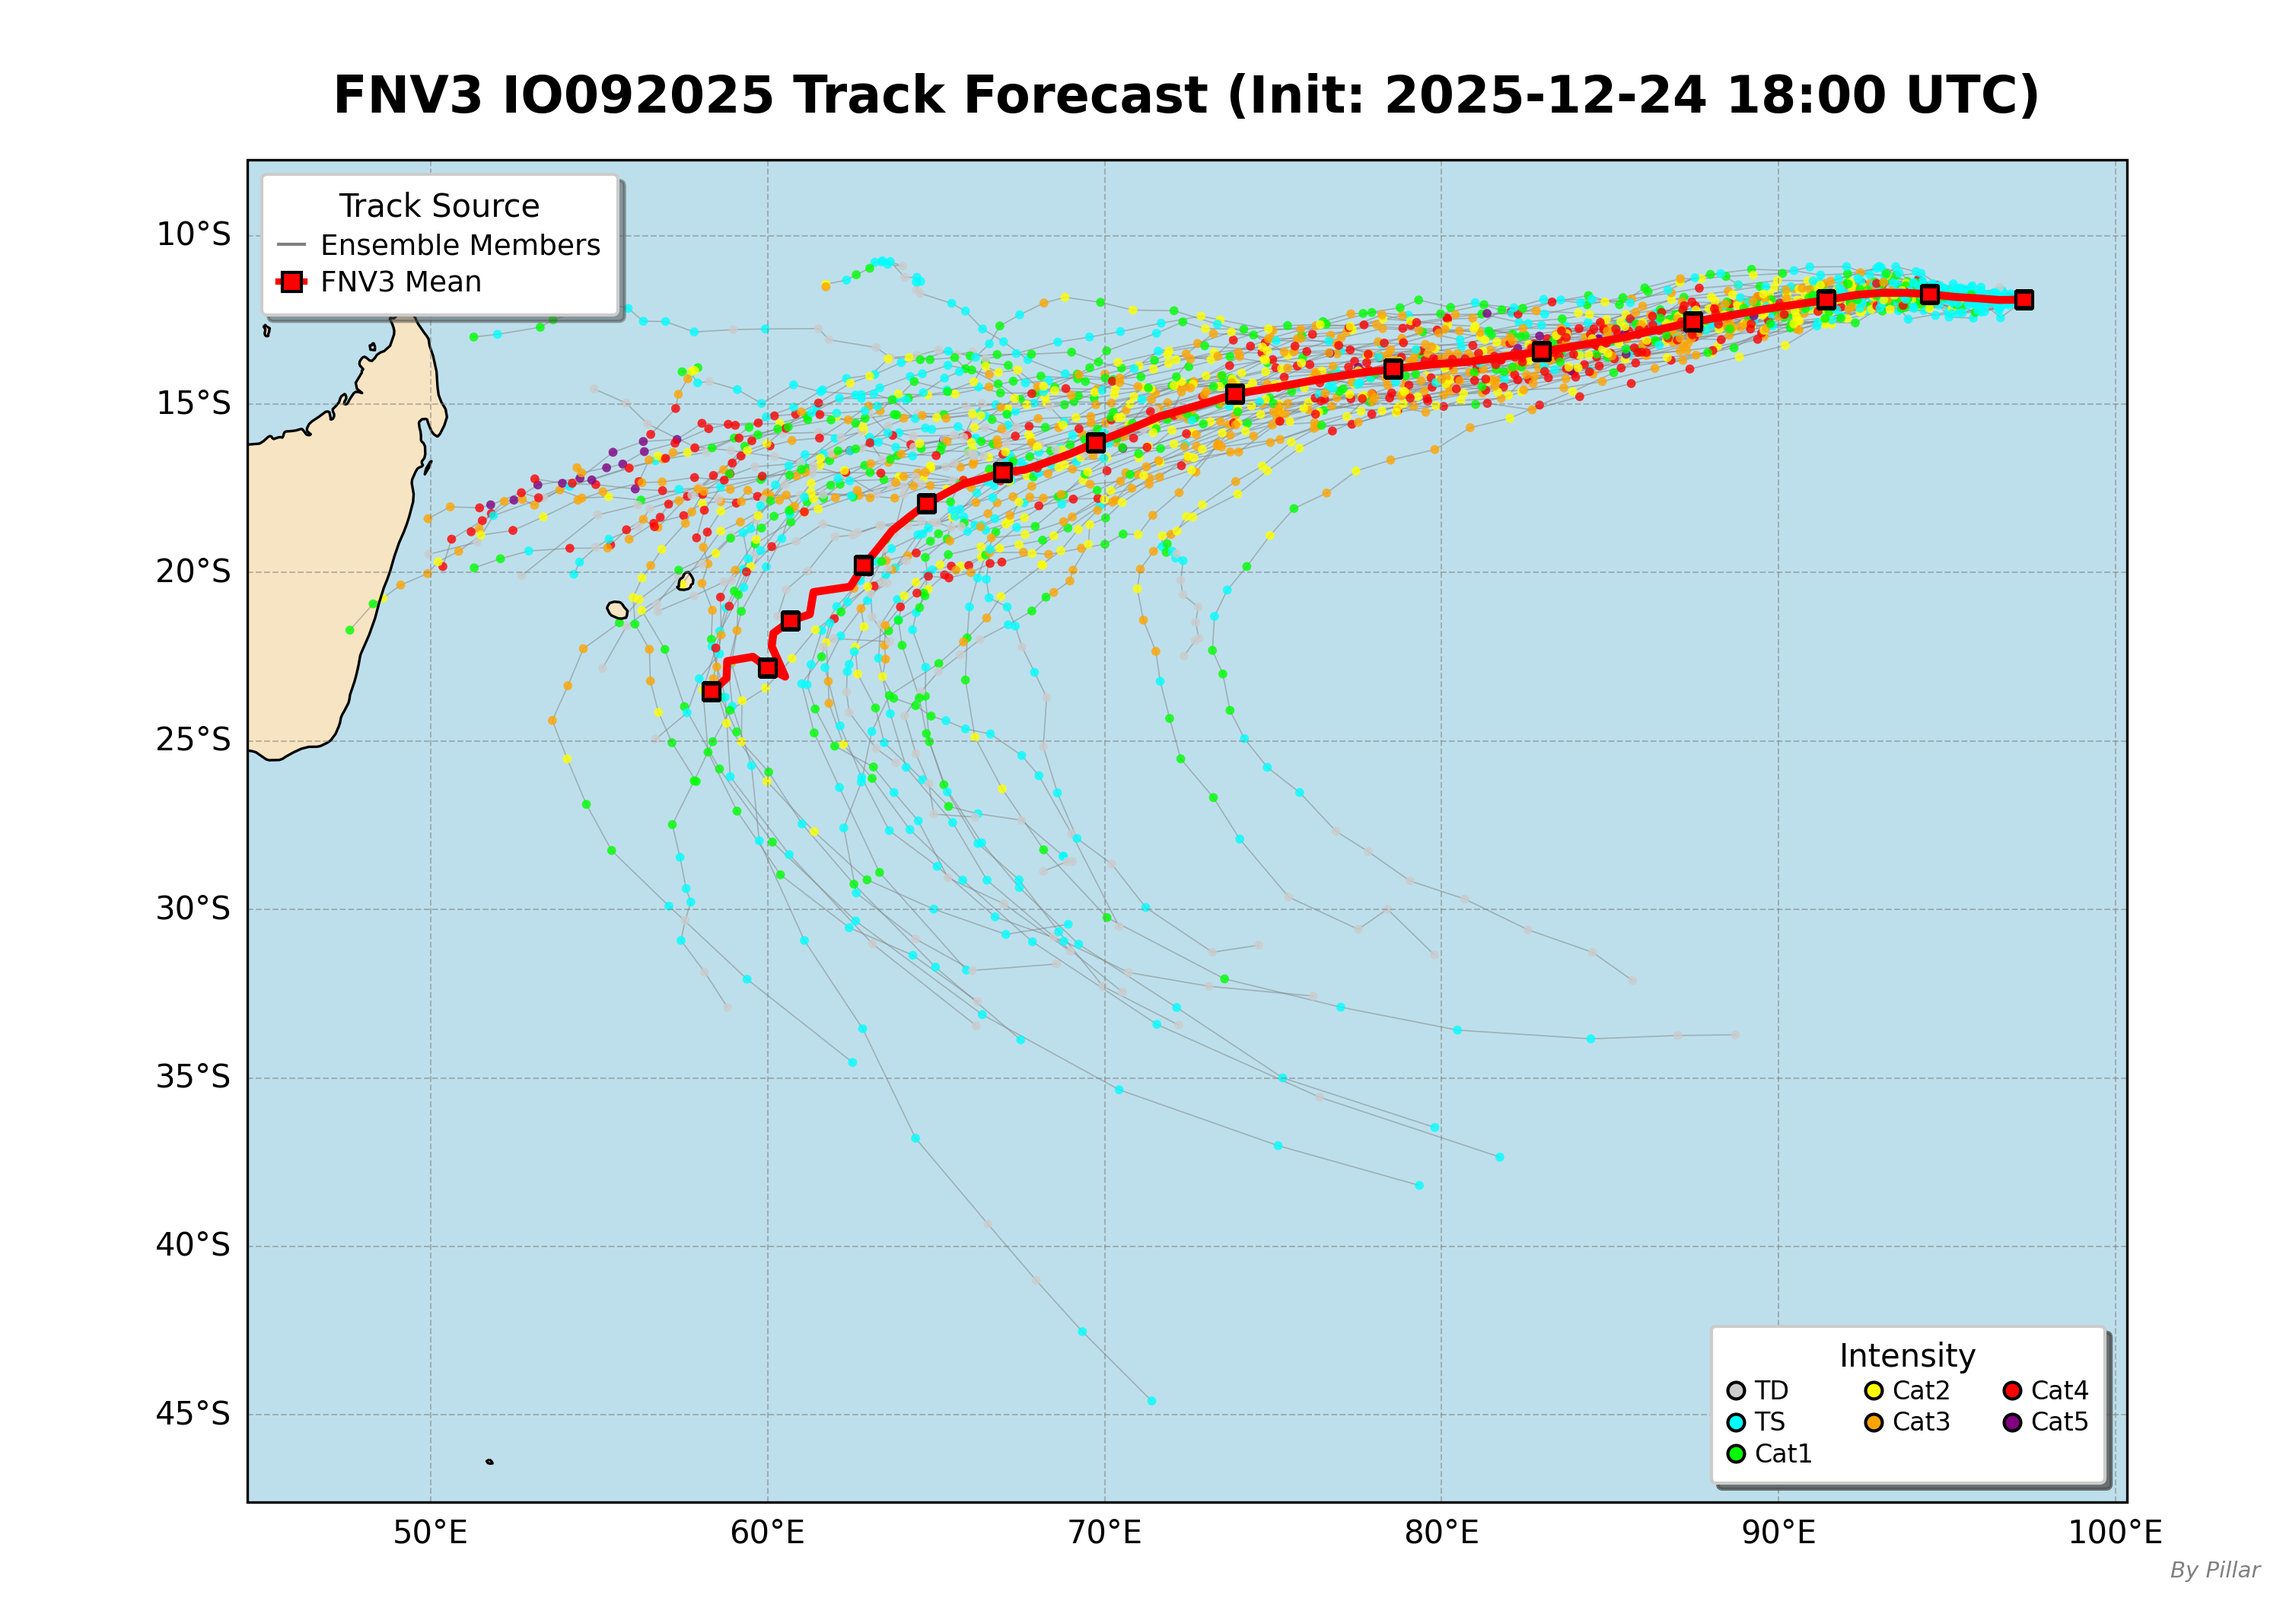
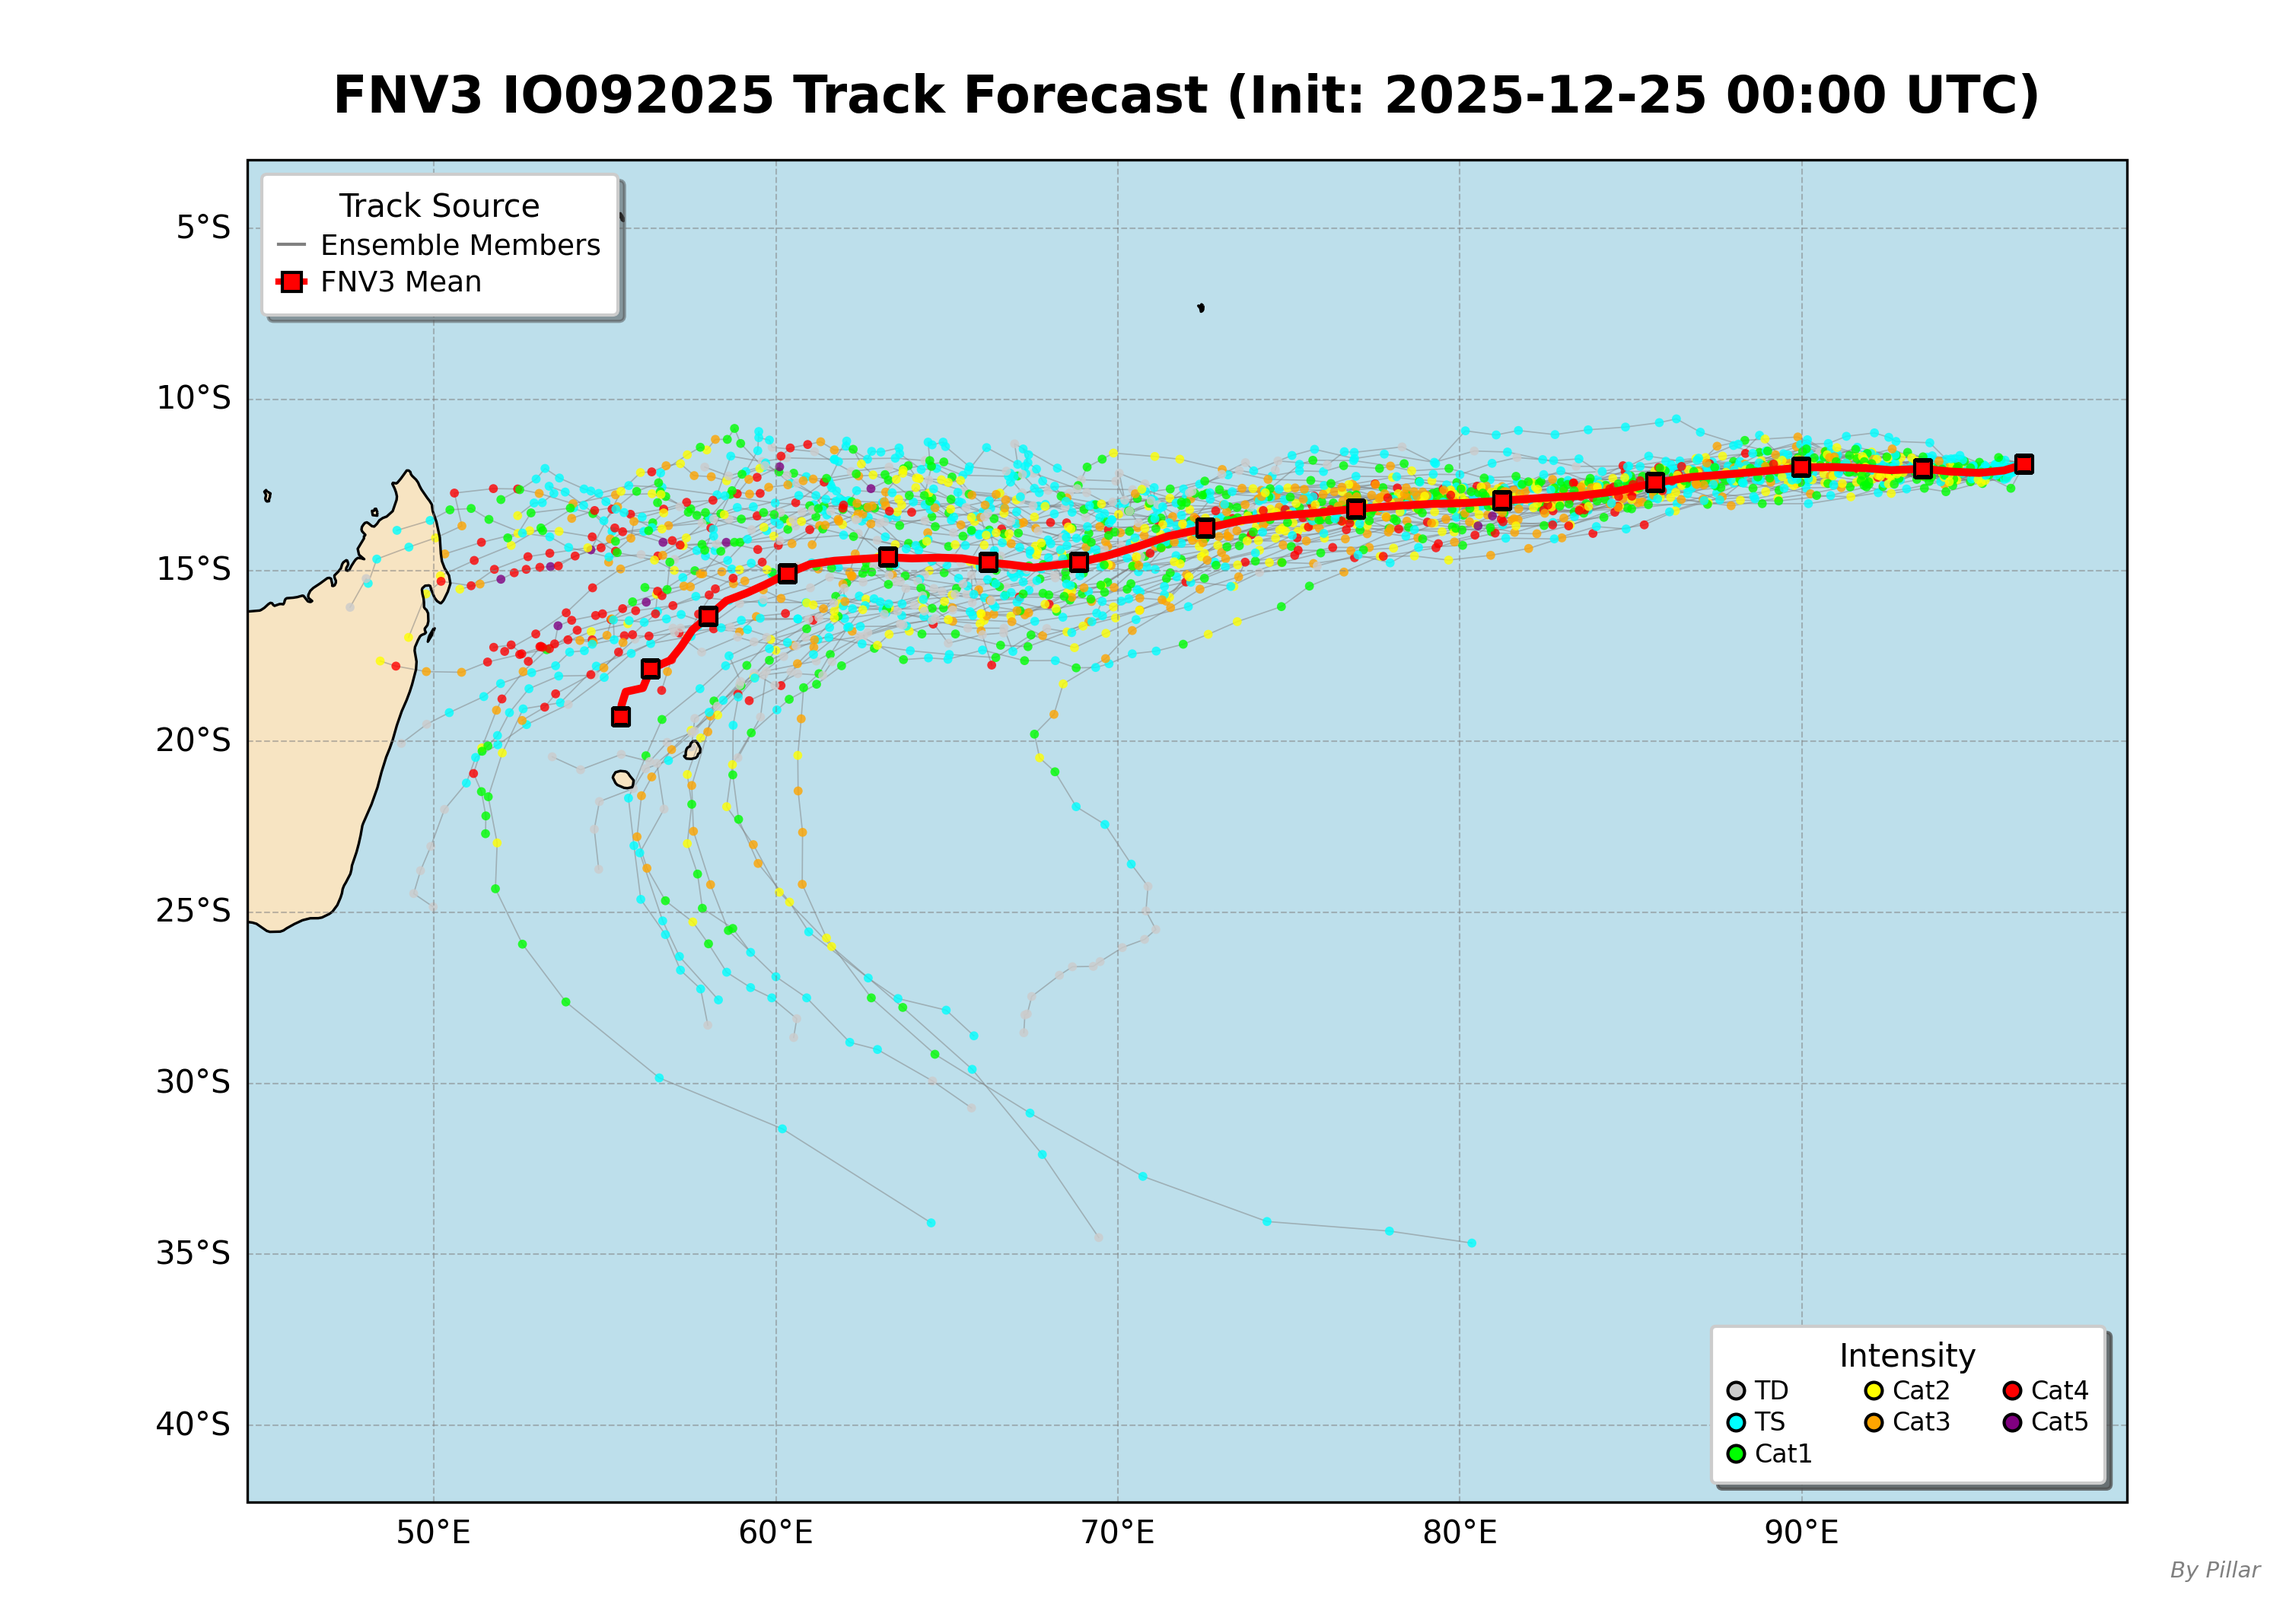
Add files via upload

diff --git a/index.html b/index.html
@@ -525,7 +525,7 @@
                     <div class="subtitle">Real-time FNV3 Ensemble Forecast System</div>
                 </div>
                 <div class="update-badge">
-                    ⏰ Updated: 2025-12-25 09:49:26
+                    ⏰ Updated: 2025-12-25 16:16:05
                 </div>
             </div>
         </header>
@@ -544,15 +544,15 @@
                 <div class="info-grid">
                     <div class="info-item">
                         <div class="info-label">🛰 Current Time</div>
-                        <div class="info-value">2025-12-24 18:00 UTC</div>
+                        <div class="info-value">2025-12-25 00:00 UTC</div>
                     </div>
                     <div class="info-item">
                         <div class="info-label">📍 Current Position</div>
-                        <div class="info-value">11.90°S, 97.30°E</div>
+                        <div class="info-value">11.90°S, 96.50°E</div>
                     </div>
                     <div class="info-item">
                         <div class="info-label">💨 Current Wind</div>
-                        <div class="info-value">39 kt</div>
+                        <div class="info-value">45 kt</div>
                     </div>
                     <div class="info-item">
                         <div class="info-label">🔥 Intensity (Saffir-Simpson)</div>
